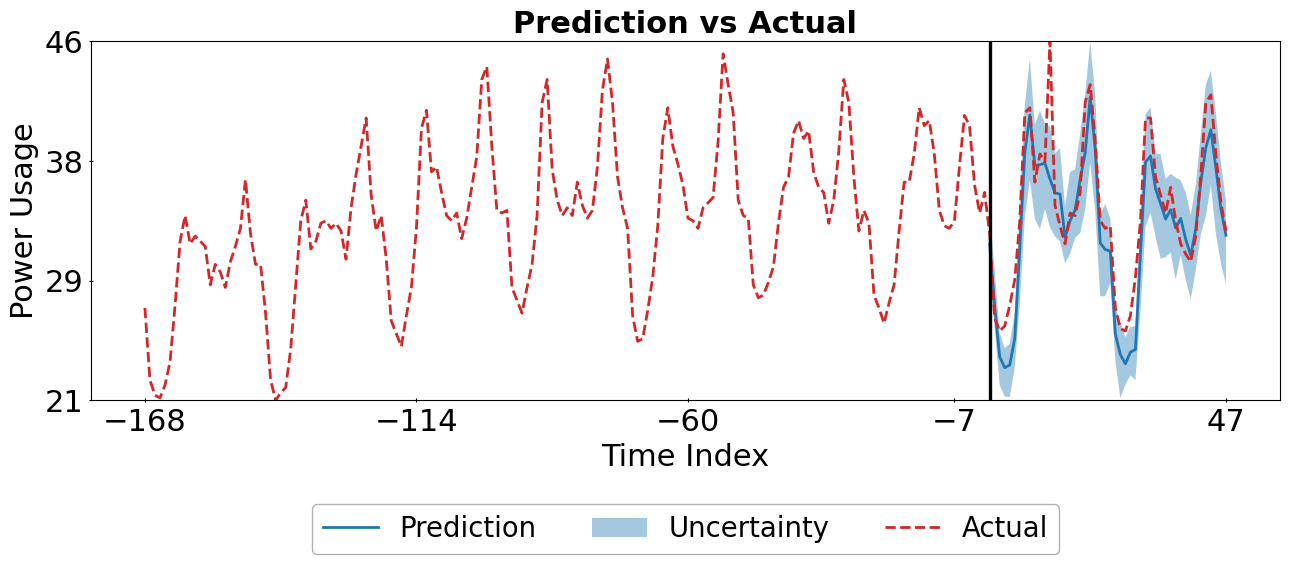
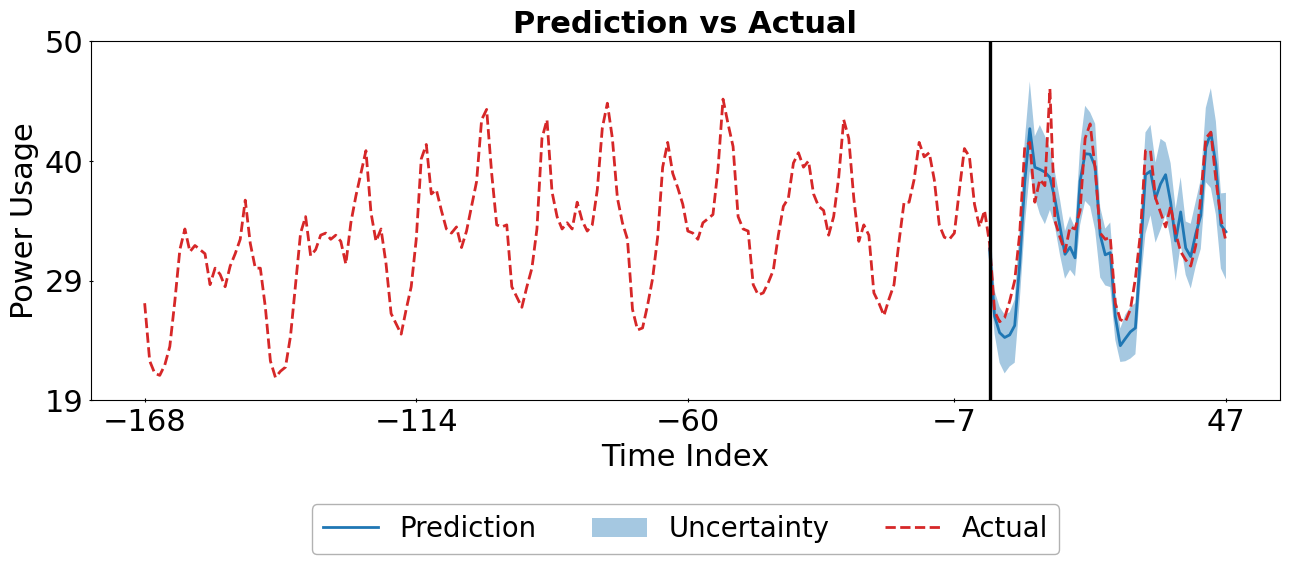
fix: adding requirements

diff --git a/tft_interp.py b/tft_interp.py
@@ -289,8 +289,6 @@ class Visualizer:
             )
             fig.tight_layout()
             fig.subplots_adjust(hspace=0.2)
-            # Setting the gradient background
-            self.set_gradient_background(axs[0], ["#FFDDDD", "#FFFFFF", "#DDDDFF"])
             fig.savefig(os.path.join(save_dir, filename))
             plt.close(fig)
 
@@ -427,7 +425,7 @@ class Visualizer:
         )
         max_y_vals = y_vals_combined.max()
         min_y_vals = y_vals_combined.min()
-        y_ticks = np.linspace(y_vals_combined.min(), y_vals_combined.max(), self.ndiv_y)
+        y_ticks = np.linspace(min_y_vals, max_y_vals, self.ndiv_y)
         ax.set_yticks(y_ticks)
 
         # Setting x-ticks based on provided x-values

diff --git a/runner.py b/runner.py
@@ -17,7 +17,7 @@ def load_data_from_txt() -> pd.DataFrame:
     """Load data frame from a text file"""
 
     # Load raw data
-    data = pd.read_csv("LD2011_2014.txt", index_col=0, sep=";", decimal=",")
+    data = pd.read_csv("./data/LD2011_2014.txt", index_col=0, sep=";", decimal=",")
     data.index = pd.to_datetime(data.index)
     data.sort_index(inplace=True)
 

diff --git a/README.md b/README.md
@@ -25,7 +25,8 @@ pip install -r requirements.txt
 
 ## Example of Power Usage Prediction
 ### Download Example Data
-Either run the following command to download the data or directly visit the provided URL
+Either run the following command to download the data or directly visit the provided URL.
+NOTE: data must be saved in a folder `data/`
 
 ```shell
 wget https://archive.ics.uci.edu/ml/machine-learning-databases/00321/LD2011_2014.txt.zip
@@ -54,13 +55,13 @@ python runner.py
 ## Directory Structure
 ```
 .
-├── runner.py                         # Run the training step
-├── config                            # User-specified data variables and hyperparameters for TFT
-├── data_preprocessor.py              # Preprocess data for TFT format
-├── metric.py                         # Loss function for training e.g., Quantile loss
-├── model.py                          # All model architectures required for TFT 
-├── tft.py                            # TFT model
-├── tft_interp.py                     # Output interpretation and visual tools
+├── runner.py                       # Run the training step
+├── config                          # User-specified data variables and hyperparameters for TFT
+├── data_preprocessor.py            # Preprocess data for TFT format
+├── metric.py                       # Loss function for training e.g., Quantile loss
+├── model.py                        # All model architectures required for TFT 
+├── tft.py                          # TFT model
+├── tft_interp.py                   # Output interpretation and visual tools
 
 ```
 
